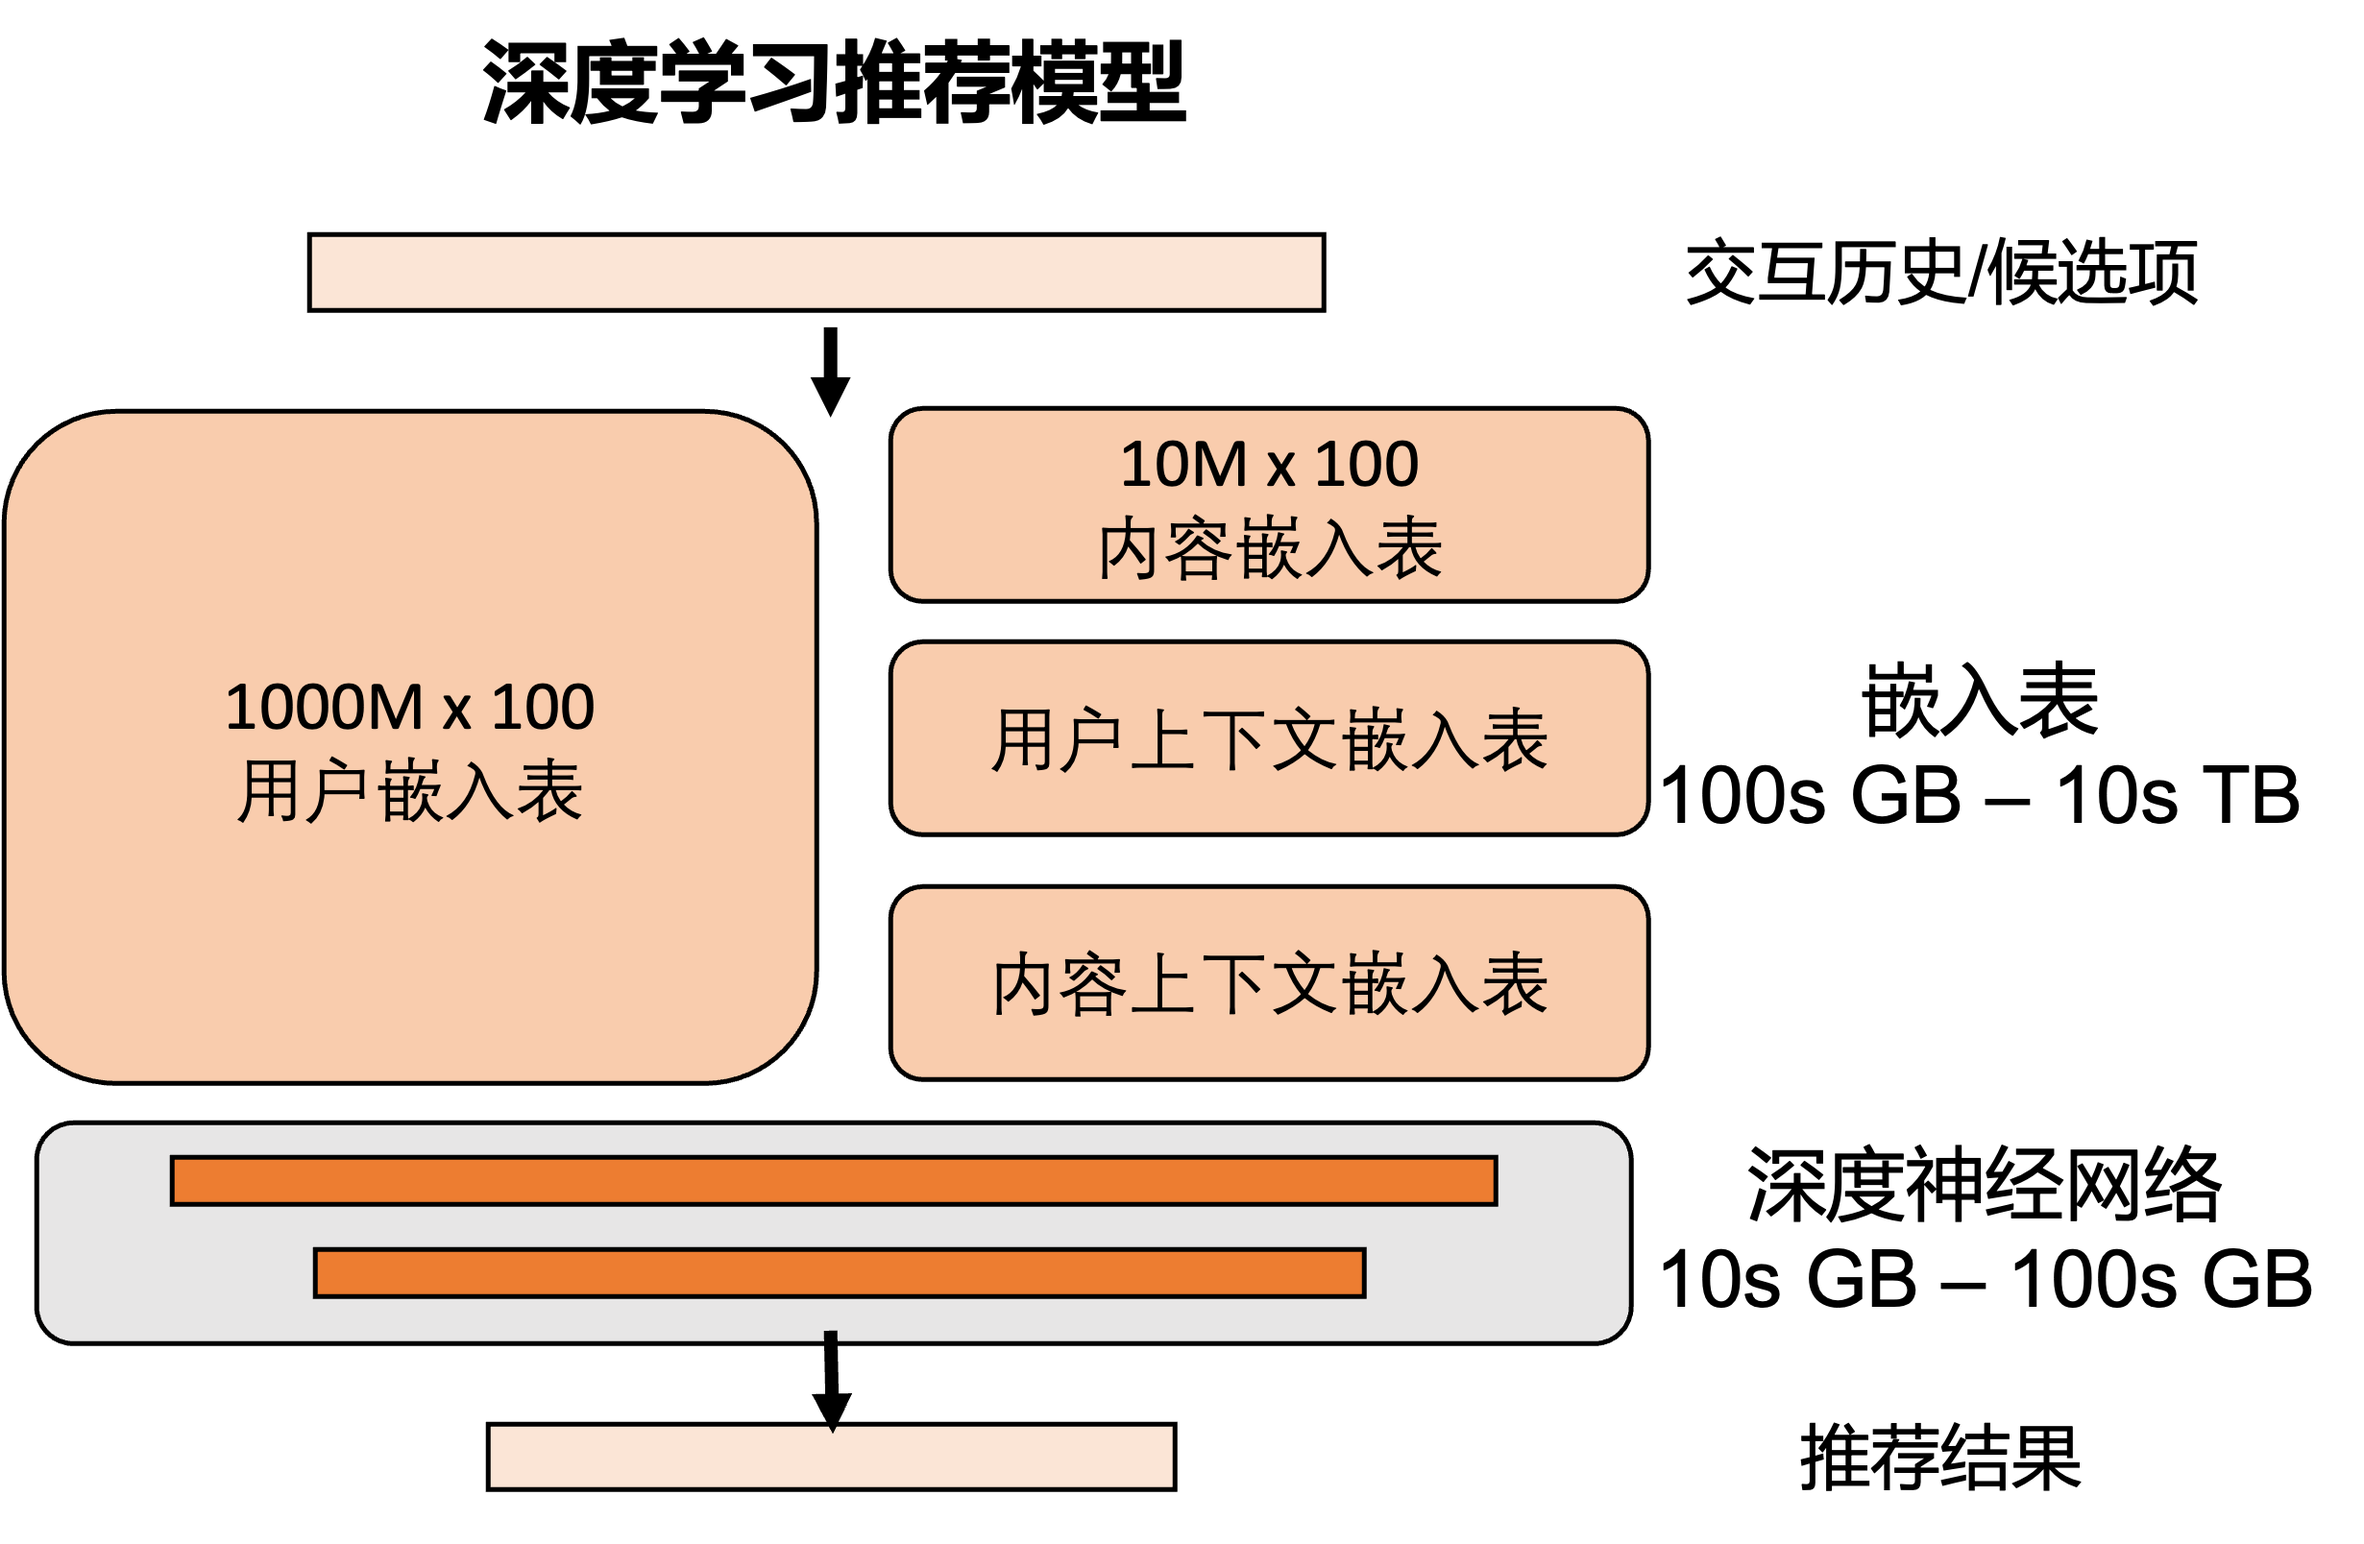
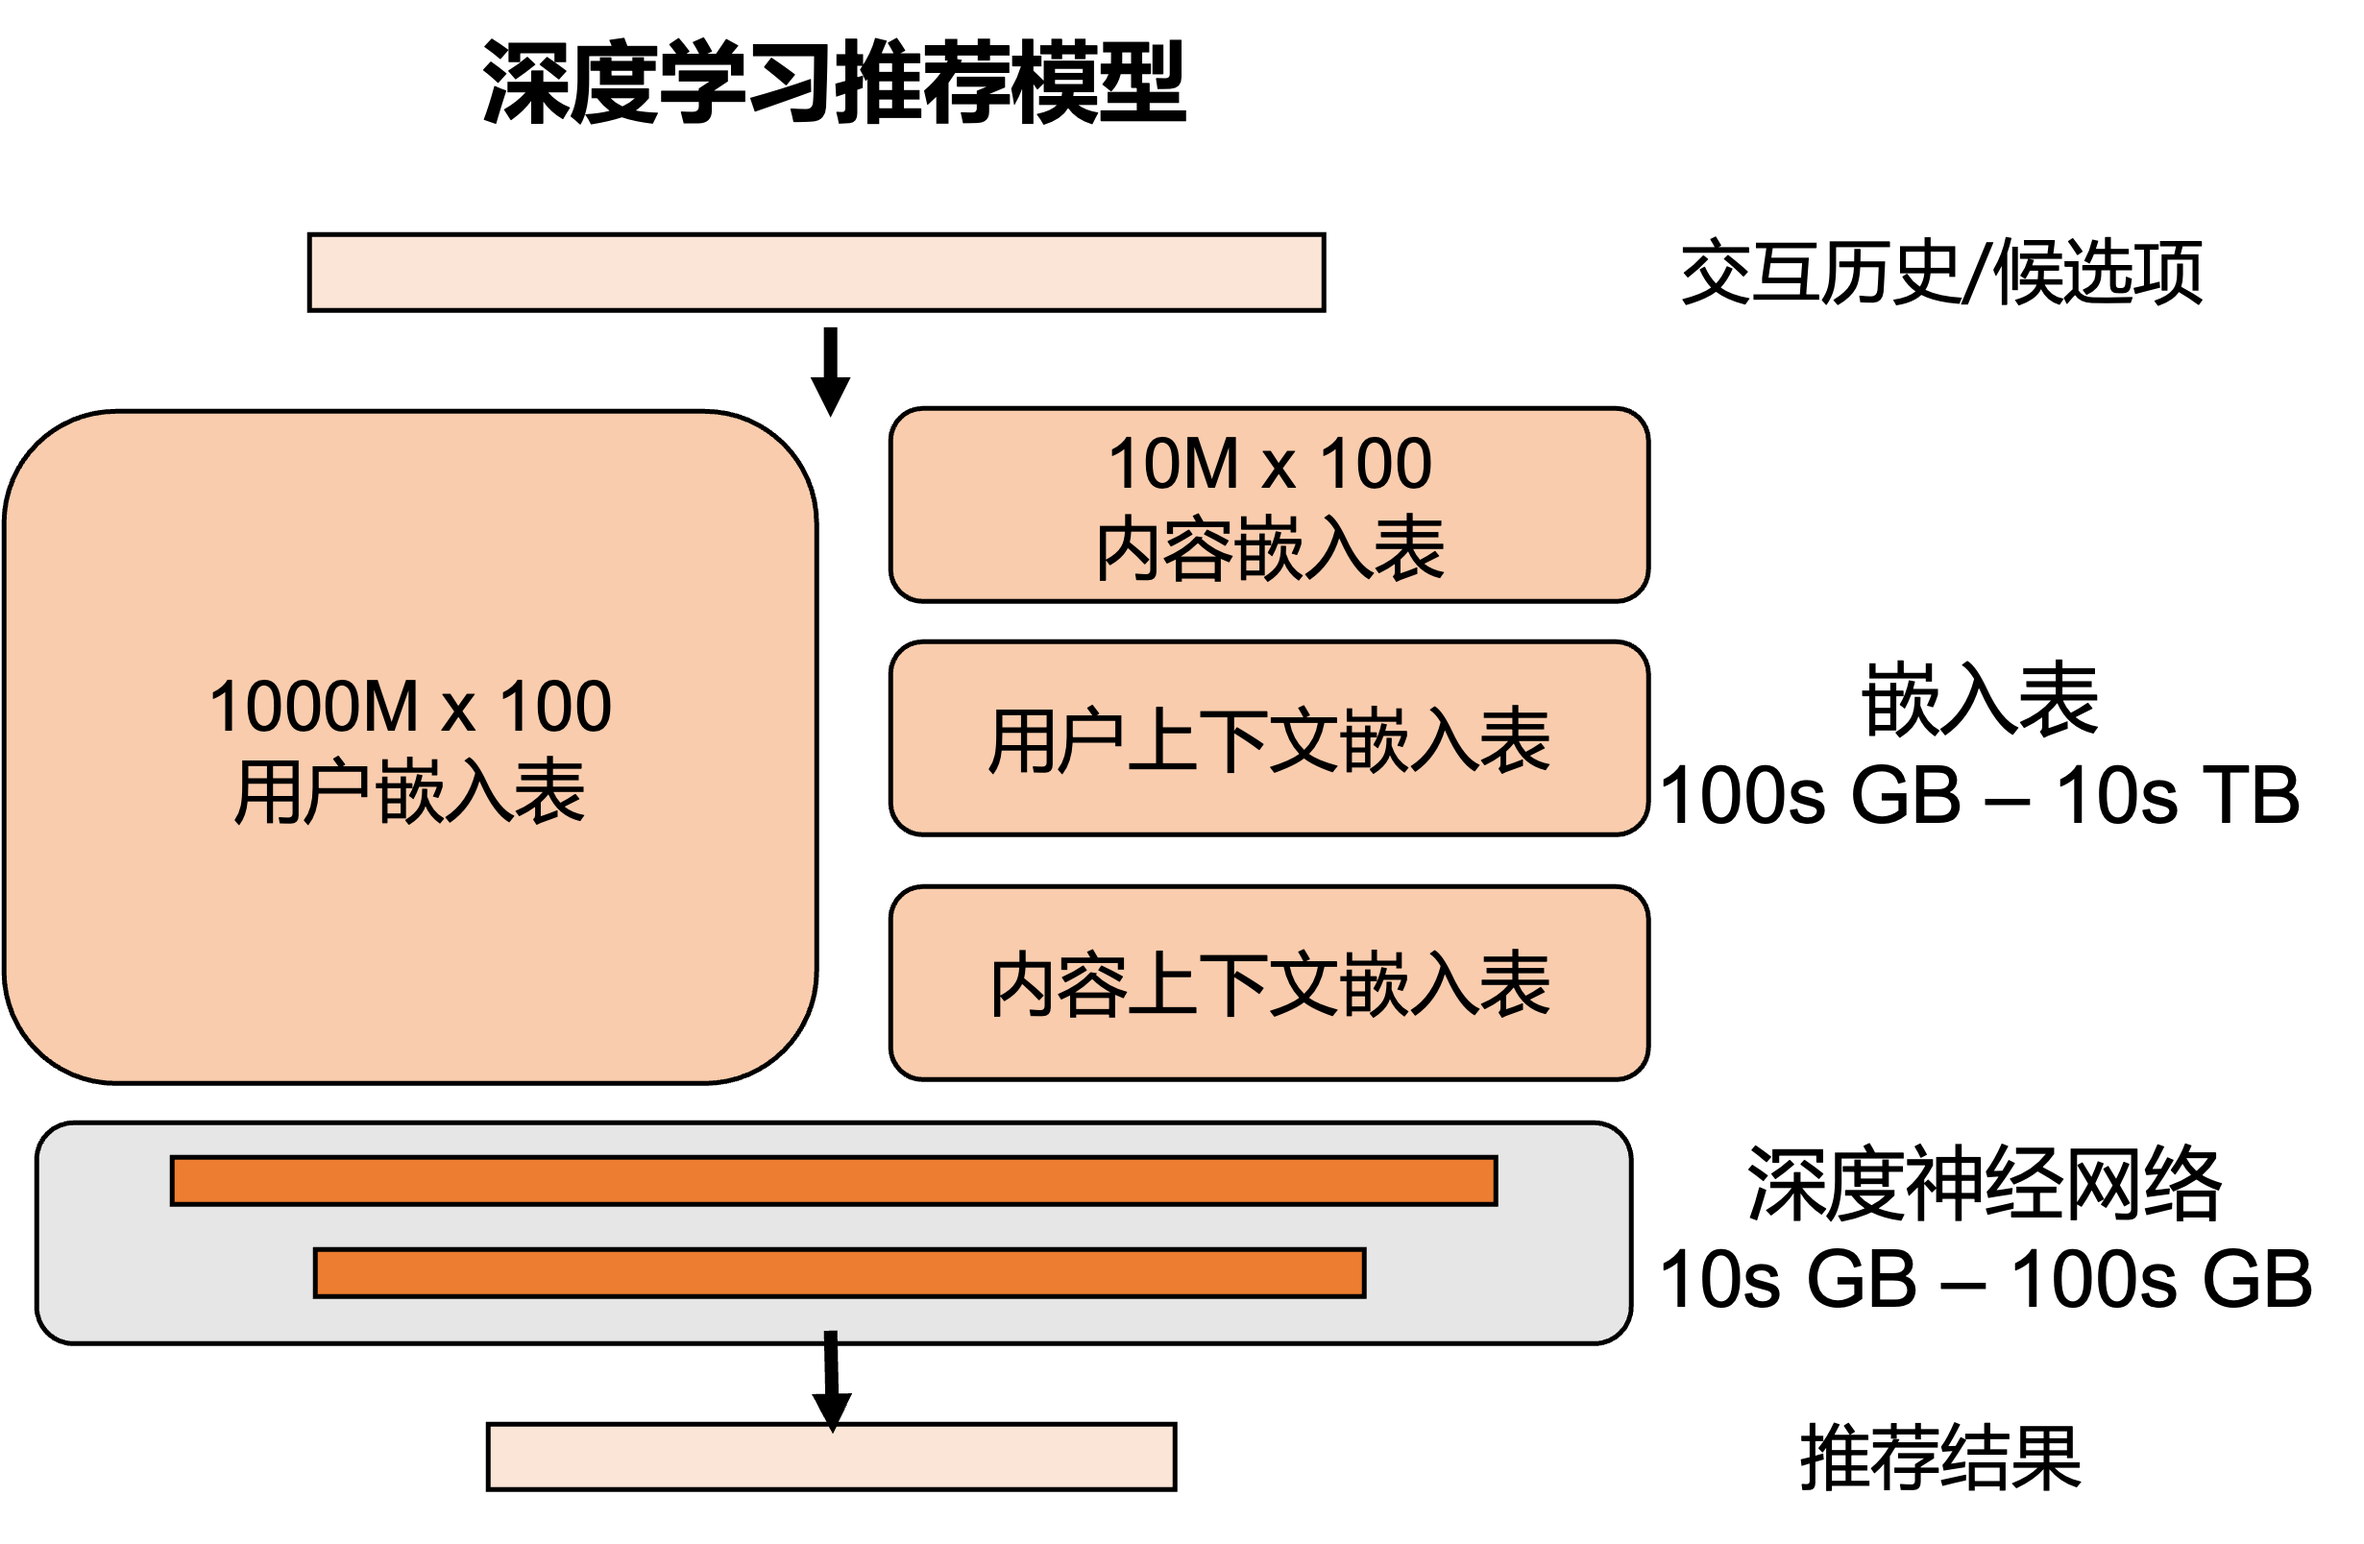
Add extended readings and fix font (#288)
* fix #264

* Fix figures

* Add extended readings (fix #282)

diff --git a/chapter_recommender_system/summary.md b/chapter_recommender_system/summary.md
@@ -1,3 +1,15 @@
 ## 小结
 
-推荐系统作为深度学习在工业界最成功的落地成果之一，极大地提升了用户的在线服务体验，并且为各大公司创造了可观的利润，然而也带来了许多系统层面的挑战亟待解决。本节简单介绍了典型的工业界推荐系统架构及其面临的挑战，并给出了潜在的解决方案的方向。在实际生产环境中，具体的系统设计方案根据不同推荐场景的需求而变化，不存在一种万能的解决方案。
+推荐系统作为深度学习在工业界最成功的落地成果之一，极大地提升了用户的在线服务体验，并且为各大公司创造了可观的利润，然而也带来了许多系统层面的挑战亟待解决。本节简单介绍了典型的工业界推荐系统架构及其面临的挑战，并给出了潜在的解决方案的方向。在实际生产环境中，具体的系统设计方案需要根据不同推荐场景的需求而变化，不存在一种万能的解决方案。
+
+## 扩展阅读
+
+- 推荐模型：[Wide & Deep](https://arxiv.org/abs/1606.07792)
+  
+- 开源推荐系统框架：[Merlin](https://irsworkshop.github.io/2020/publications/paper_21_Oldridge_Merlin.pdf)
+  
+- 软硬件协同设计加速超大规模深度学习推荐系统训练：[ZionEX](https://arxiv.org/abs/2104.05158v5)
+
+- 利用多级缓存支持超大规模深度学习推荐系统训练：[Distributed Hierarchical GPU Parameter Server for Massive Scale Deep Learning Ads Systems](https://arxiv.org/abs/2003.05622)
+
+- 工业界机器学习系统的实践：[Hidden Technical Debt in Machine Learning Systems](https://papers.nips.cc/paper/2015/hash/86df7dcfd896fcaf2674f757a2463eba-Abstract.html)
